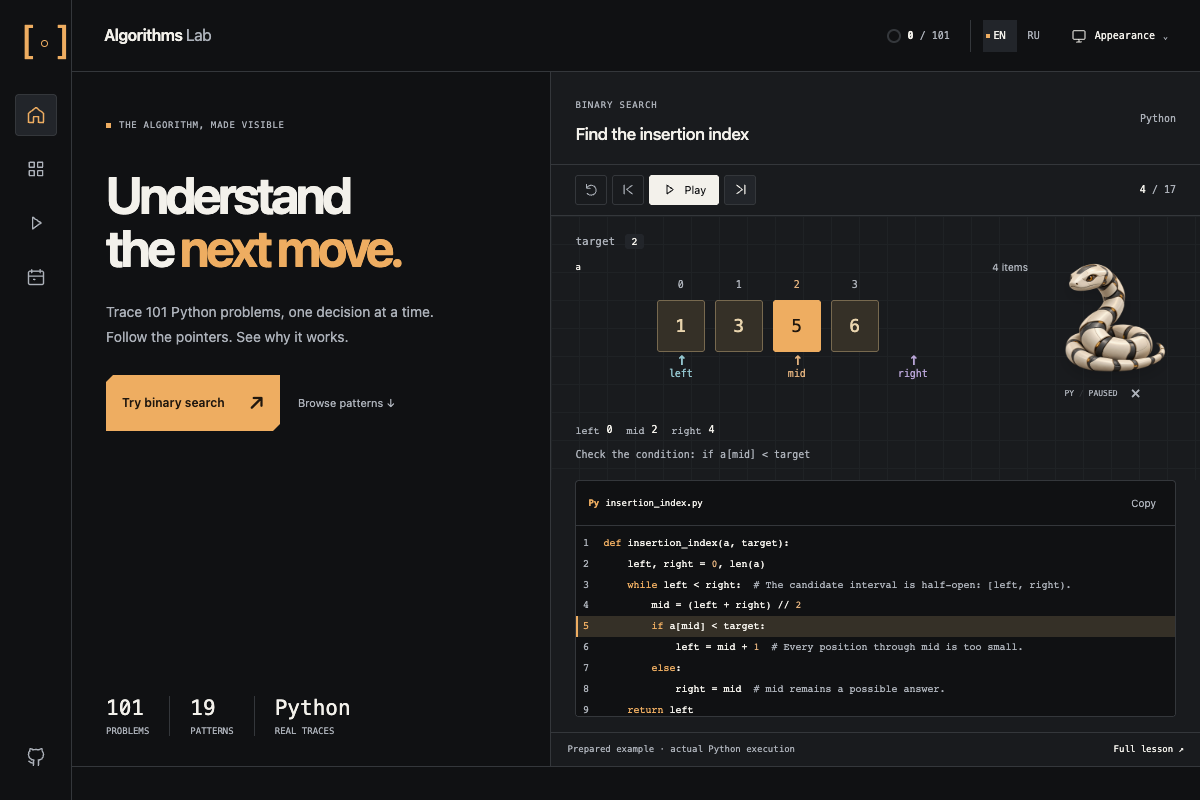
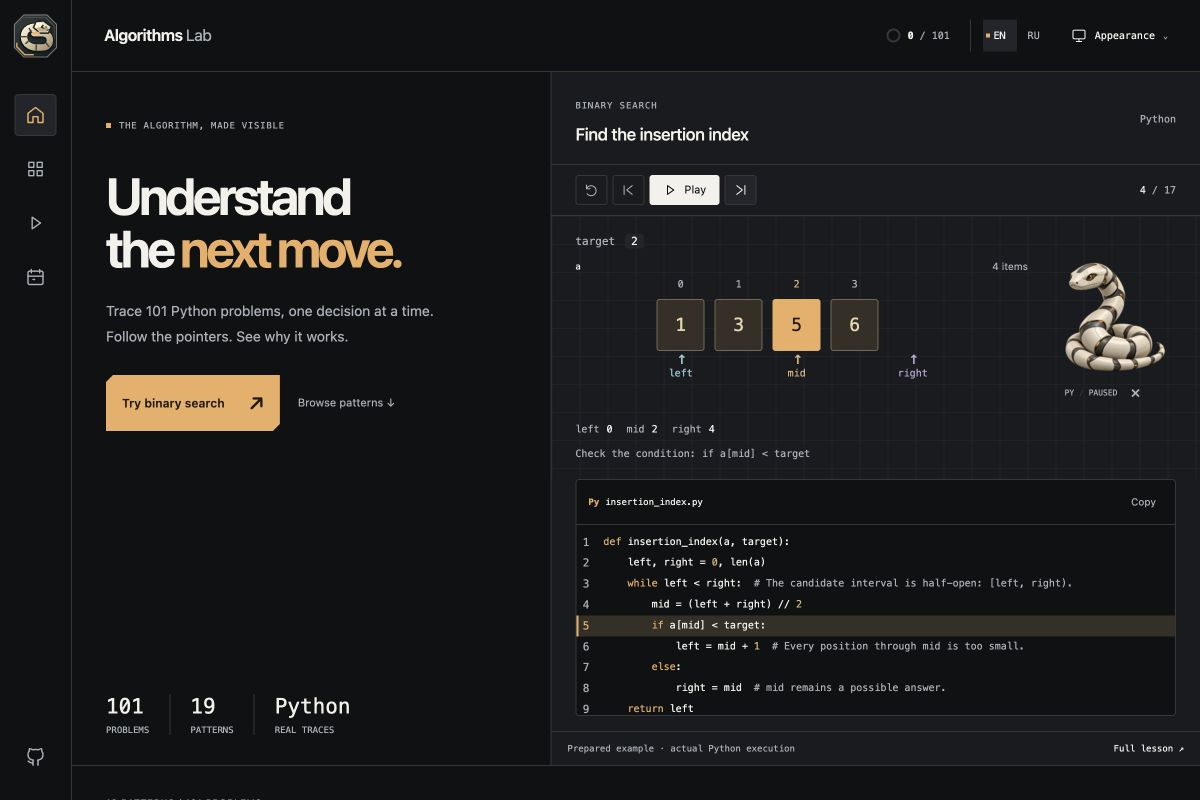
docs: refresh launch walkthrough and demo media

diff --git a/README.ru.md b/README.ru.md
@@ -1,14 +1,14 @@
 # Algorithms Lab
 
-[English README](README.md) · [Открыть сайт на русском](https://glec1er.github.io/algorithms/?lang=ru)
+**Разбирайте паттерны собеседований на Python по шагам.**
 
-Интерактивный спутник **Coding Interview Patterns** Alex Xu и Shaun Gunawardane.
+**101 задача**, **19 разборов паттернов** и **404 подготовленных примера** с проверкой ожидаемых ответов. Английский по умолчанию, полный русский режим на выбор.
 
-**Открыть сайт: https://glec1er.github.io/algorithms/**
+**[Открыть демо на русском →](https://glec1er.github.io/algorithms/?lang=ru)** · [Начать с бинарного поиска](https://glec1er.github.io/algorithms/?lang=ru#/problem/insertion_index) · [English README](README.md)
 
-19 глав, 101 задача, 404 подготовленных примера. Английский по умолчанию, полный русский режим на выбор, исходные английские названия, оригинальные Python-решения и визуализации фактического выполнения кода.
+[![Главная Algorithms Lab: пример бинарного поиска и переход к библиотеке паттернов; интерфейс на английском](docs/media/home.png)](https://glec1er.github.io/algorithms/?lang=ru)
 
-![Пошаговый разбор бинарного поиска](docs/media/binary-search.gif)
+Без аккаунта и сервера. Без аналитики. Лицензия MIT.
 
 ## Возможности
 
@@ -20,6 +20,14 @@
 - Подробные разборы всех 19 паттернов: распознавание, шаги решения, мини-пример и ошибки.
 - Мобильная версия, управление клавиатурой и поддержка reduced motion.
 - Светлое, тёмное и системное оформление. Необязательный спутник Py, робот-питон, реагирует на шаги алгоритма; его можно скрыть или отключить движение в настройках оформления. [Устройство Py](docs/mascot.md).
+
+## Разбор за минуту
+
+1. Откройте [«Позиция вставки»](https://glec1er.github.io/algorithms/?lang=ru#/problem/insertion_index): найдите место для `2` в массиве `[1, 3, 5, 6]`.
+2. Нажимайте **→** для перехода по шагам или **пробел** для воспроизведения. Следите за `left`, `mid` и `right` рядом с Python-кодом; ответ — индекс `1`. Состояние показано **перед** выполнением выделенной строки.
+3. Выберите другой **Пример**, откройте разбор **Binary Search** под проигрывателем или переключите **EN / RU**, сохранив текущий шаг.
+
+![Бинарный поиск: указатели, Python-код и записанные состояния выполнения; интерфейс на английском](docs/media/binary-search.gif)
 
 ## Язык и резервные копии
 

diff --git a/README.md b/README.md
@@ -6,7 +6,7 @@ Explore **101 Python interview problems** through step-by-step execution visuali
 
 **[Try the live demo →](https://glec1er.github.io/algorithms/)** · [Start with binary search](https://glec1er.github.io/algorithms/?lang=en#/problem/insertion_index) · [Русский README](README.ru.md)
 
-![Binary search in Algorithms Lab: Python code, pointers and execution state](docs/media/binary-search.gif)
+[![Algorithms Lab home: a live binary-search example beside the pattern library entry point](docs/media/home.png)](https://glec1er.github.io/algorithms/)
 
 - **See what every line changes.** Arrays, pointers, linked nodes, trees, graphs, heaps, DP tables, a call stack and local variables stay connected to the displayed Python.
 - **Learn the reasoning.** Each pattern includes recognition signals, an invariant, a worked example, comparisons and common mistakes.
@@ -14,6 +14,14 @@ Explore **101 Python interview problems** through step-by-step execution visuali
 - **Make the workspace yours.** Choose light, dark or system appearance. Py, an optional robot-python companion, reacts to the trace; pause its motion or hide it from Appearance. Reduced motion is respected. [How Py works](docs/mascot.md).
 
 No account or server required. No analytics. MIT licensed.
+
+## Try a one-minute walkthrough
+
+1. Open [Find the insertion index](https://glec1er.github.io/algorithms/?lang=en#/problem/insertion_index): find where `2` belongs in `[1, 3, 5, 6]`.
+2. Press **→** to step or **Space** to play. Follow `left`, `mid` and `right` beside the Python code; the final answer is index `1`. Each highlighted line shows the state **before** it runs.
+3. Choose another **Example**, open the **Binary Search** pattern guide below the player, or switch **EN / RU** without losing your place.
+
+![Binary search walkthrough: pointers, Python code and recorded execution state](docs/media/binary-search.gif)
 
 ## Explore
 
